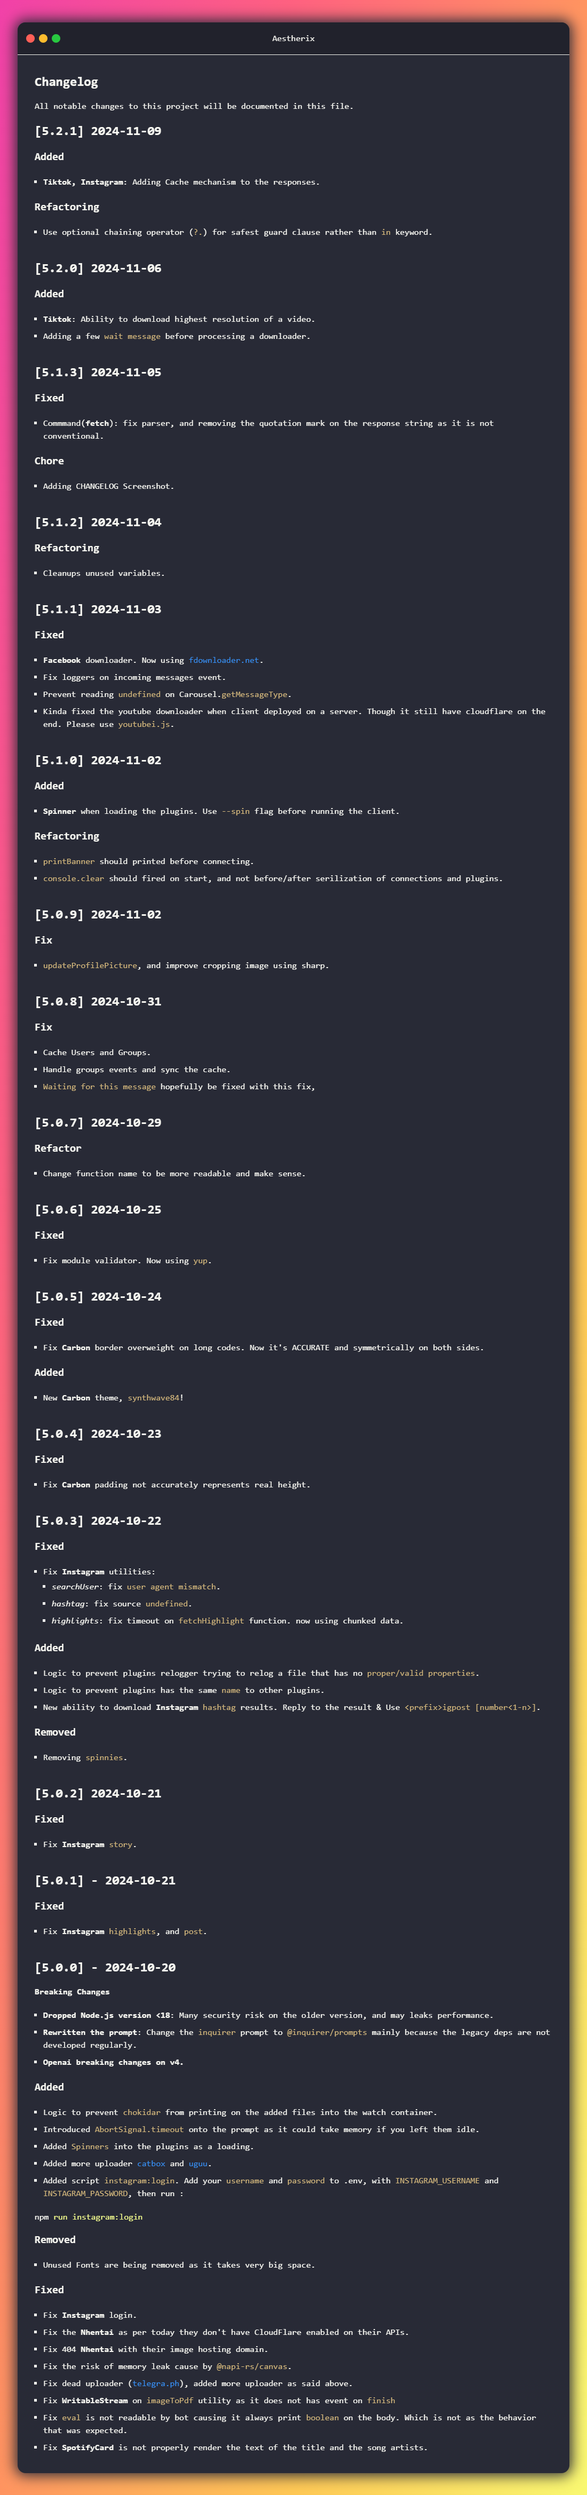
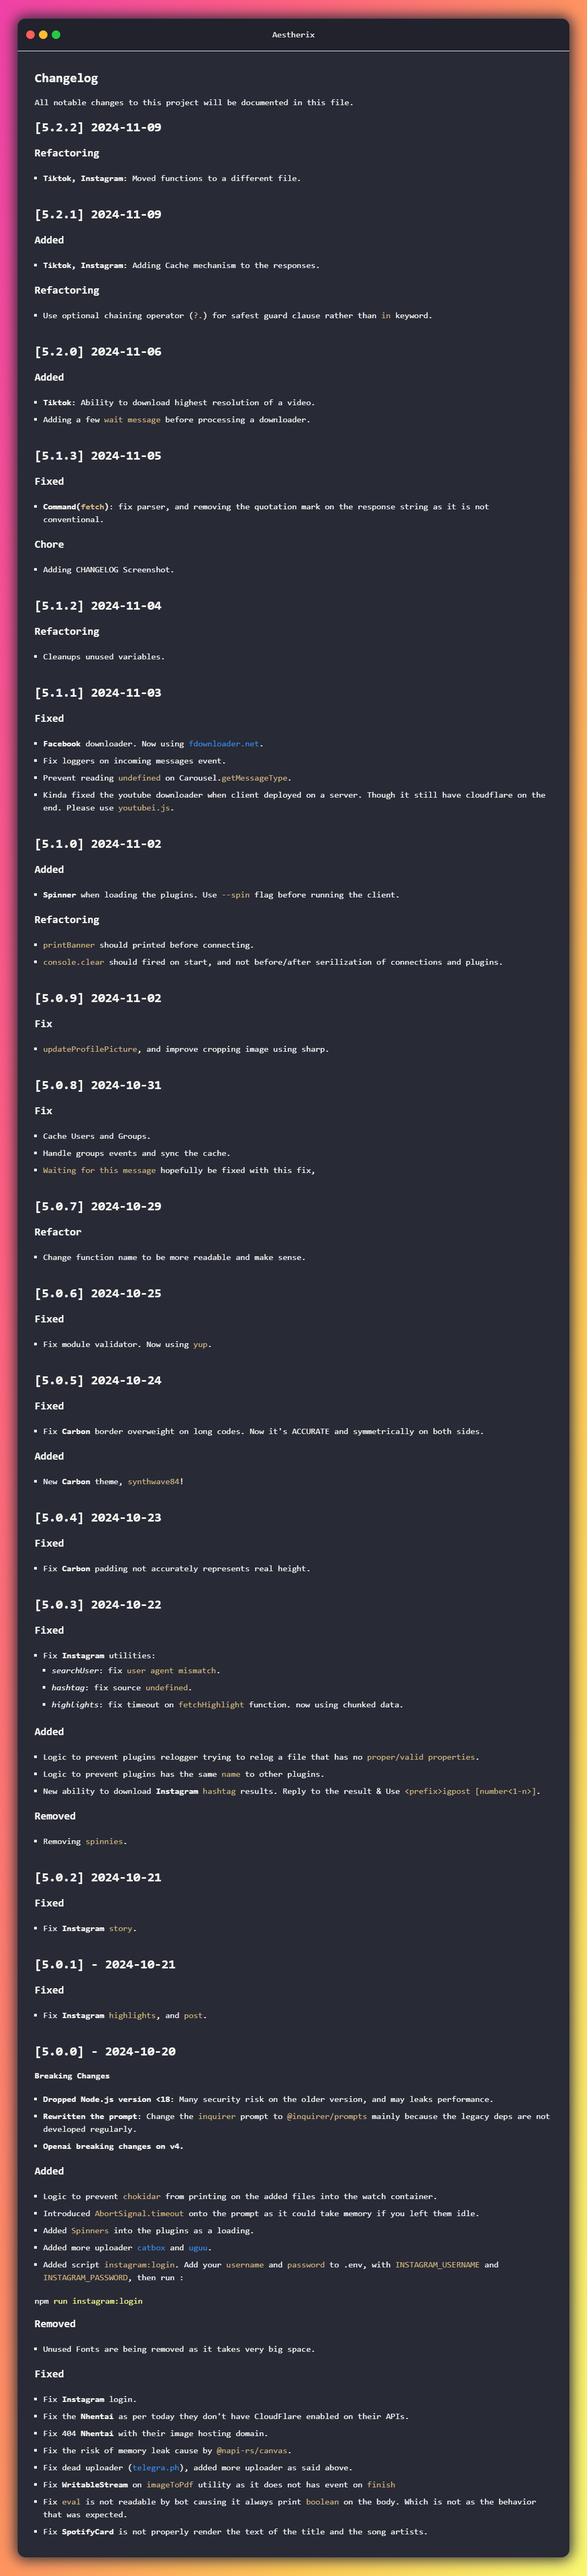
update changelog

Changed region(s): [[0.0309, 0.0, 0.9582, 0.9994], [0.5873, 0.8432, 0.7418, 0.8744], [0.4636, 0.8432, 0.5564, 0.8744]]

diff --git a/CHANGELOG.md b/CHANGELOG.md
@@ -2,6 +2,12 @@
 
 All notable changes to this project will be documented in this file.
 
+# [5.2.2] 2024-11-09
+## Refactoring
+- **Tiktok, Instagram**: Moved functions to a different file.
+
+---
+
 # [5.2.1] 2024-11-09
 ## Added
 - **Tiktok, Instagram**: Adding Cache mechanism to the responses.
@@ -20,7 +26,7 @@ All notable changes to this project will be documented in this file.
 
 # [5.1.3] 2024-11-05
 ## Fixed
-- Commmand(**fetch**): fix parser, and removing the quotation mark on the response string as it is not conventional.
+- **Command(`fetch`)**: fix parser, and removing the quotation mark on the response string as it is not conventional.
 
 ## Chore
 - Adding CHANGELOG Screenshot.
